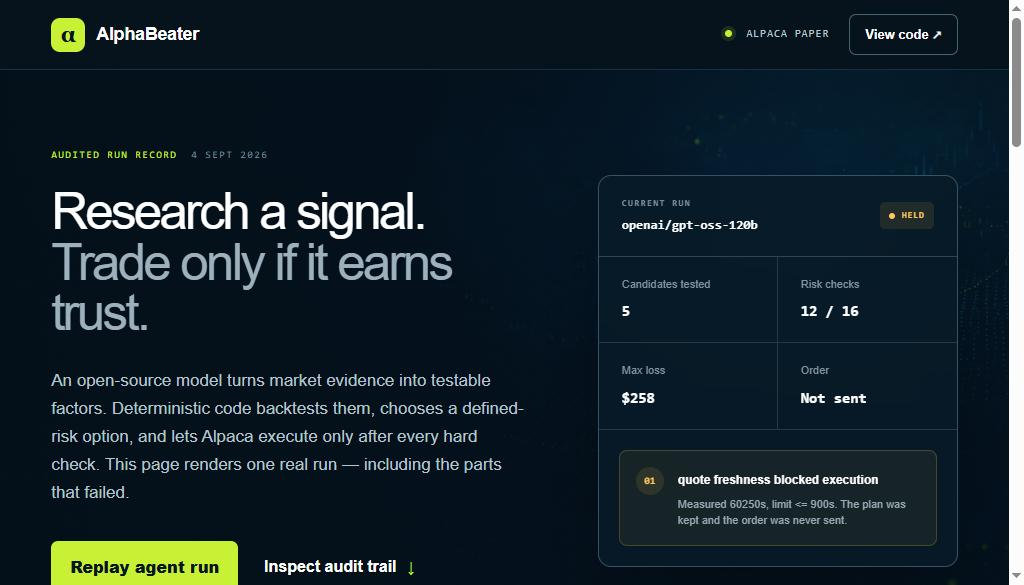
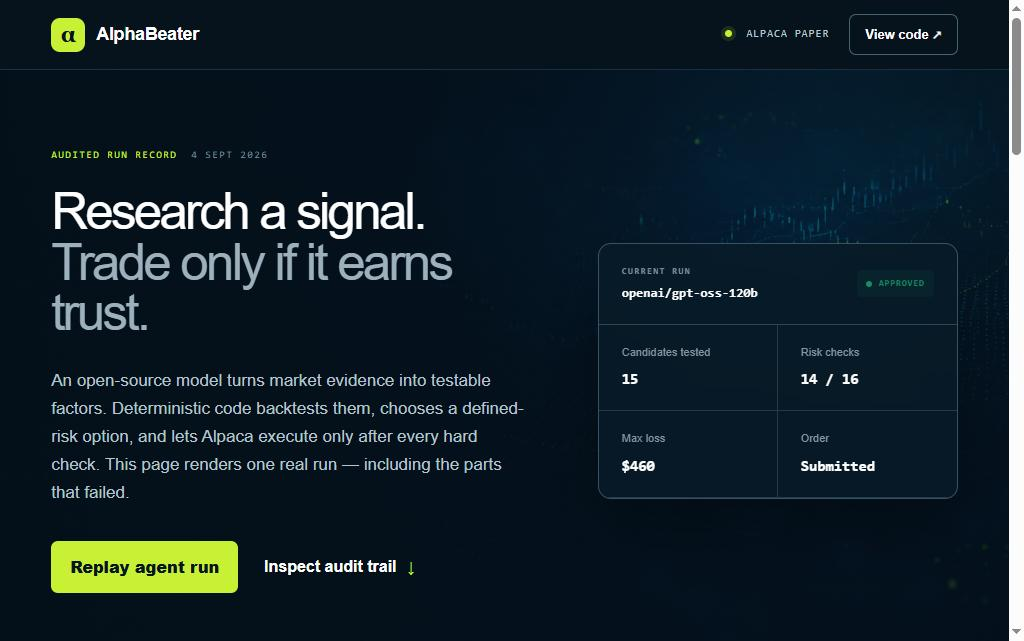
Record the executed trade and the account ID for judging
The README described the pre-trade state: five candidates and no order. The
run that actually happened produced fifteen candidates and a filled paper
options order, so a reader would have concluded the agent never traded.

Adds the dedicated hackathon account number, which the submission requires
so judges can locate the trading activity and evaluate P&L. It is a paper
account identifier and carries no authority on its own; the API requires a
key and secret.

Also states the out-of-sample collapse in full: the traded factor was worth
+54.20% excess with Sharpe 1.67 on the period used to select it, and -6.08%
with Sharpe 0.43 on the locked period. That is the argument for holding a
period back, and it is why this run is labelled experimental rather than
validated.

Hero screenshot refreshed to the post-execution state.

Claude-Session: https://claude.ai/code/session_01FULf8oUU1r7Soe8qo6V1sT

diff --git a/README.md b/README.md
@@ -112,13 +112,51 @@ run, regenerated by `alphabeater-publish`.
 
 The strategy buys premium only. Its maximum loss is the premium paid. It does not write naked options or send live orders.
 
+## Hackathon submission
+
+**Alpaca paper trading account: `PA32L0D145M5`** - a new, dedicated account opened for this
+hackathon, funded at exactly $100,000.00. Every order below is visible in that account.
+
 ## Latest verified run
 
-On September 4, 2026, `openai/gpt-oss-120b` generated five valid, executable factor candidates over the 18-symbol universe in 33 seconds. None passed both the training and validation gates, so the agent did not qualify any candidate for research-validated execution.
+On 4 September 2026 the agent ran end to end against live Alpaca data and **executed a paper
+options trade through Alpaca's official MCP server.**
 
-A separate systematic sweep of 20 classical factor shapes through the same backtester found exactly one that cleared the gate: `neg(ts_rank(ts_std(close,20), 60))`, with training Sharpe 1.50 and validation Sharpe 1.57. On the locked test it returned +2.29% - positive, but behind the +12.43% benchmark. That formula is only expressible because `ts_rank` exists; it was impossible in the earlier 15-operator language.
+```
+IWM260925P00294000     IWM $294 PUT, expiring 25 Sep 2026
+BUY 1 @ limit $4.60  ->  FILLED @ $4.54
+maximum loss $454, fixed by construction
+```
 
-This is expected risk behavior, not a profitable result. The audit is stored locally in `artifacts/final-evaluation.json` and is excluded from Git because generated artifacts may contain account or order details.
+`openai/gpt-oss-120b` generated **15 factor candidates** across three precommitted research
+batches over the 18-symbol universe. **None passed the research gate.** The order was therefore
+taken under the explicitly labelled `experimental_forward_paper` policy, which relaxes the three
+*advisory* research checks and leaves every *blocking* safety check in force.
+
+**14 of 16 risk checks passed, with zero blocking failures.** Quote freshness measured 0 seconds
+against a 900 second limit. The two advisory failures are recorded honestly: holdout Sharpe 0.43
+against a 0.50 requirement, and holdout excess return -6.08%.
+
+### The number that matters most
+
+The traded factor, `vol_norm_mr_signal3`:
+
+| Period | Excess return | Sharpe | Selection saw it? |
+| --- | --- | --- | --- |
+| Training | -0.54% | 0.89 | yes |
+| Validation | **+54.20%** | **1.67** | yes |
+| **Locked holdout** | **-6.08%** | **0.43** | **no - read once, after choosing** |
+
+A factor worth +54.20% excess return on the period used to choose it was worth **-6.08%** on the
+period it had never seen. That collapse is the entire argument for a locked test set, and it is
+the reason this run is labelled experimental rather than validated.
+
+It also explains the rejection precisely: training excess return was **-0.54%**, and the gate
+requires positive excess in *both* periods. It failed by half a percentage point on one criterion.
+
+**This is not a claim of edge.** It is a disciplined, fully gated, fully audited trade on a signal
+the agent itself declined to certify. The complete record is in
+[`docs/sample-run.json`](docs/sample-run.json).
 
 ## Research model and evaluation
 
